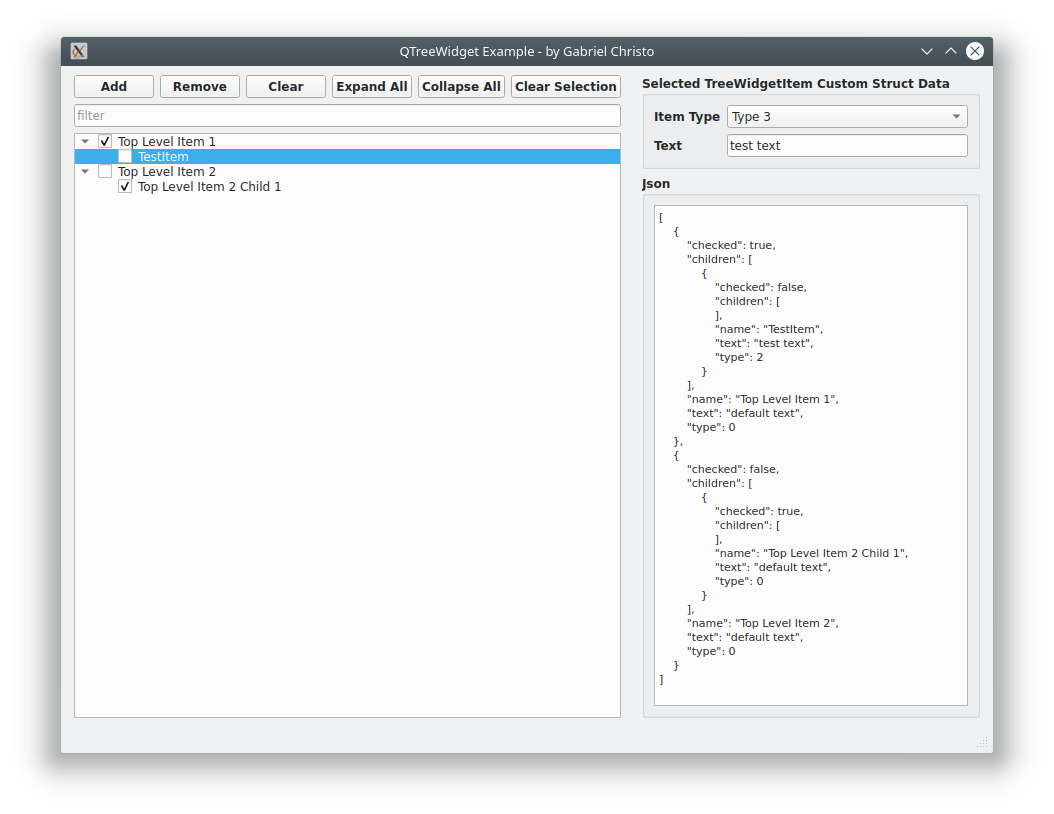
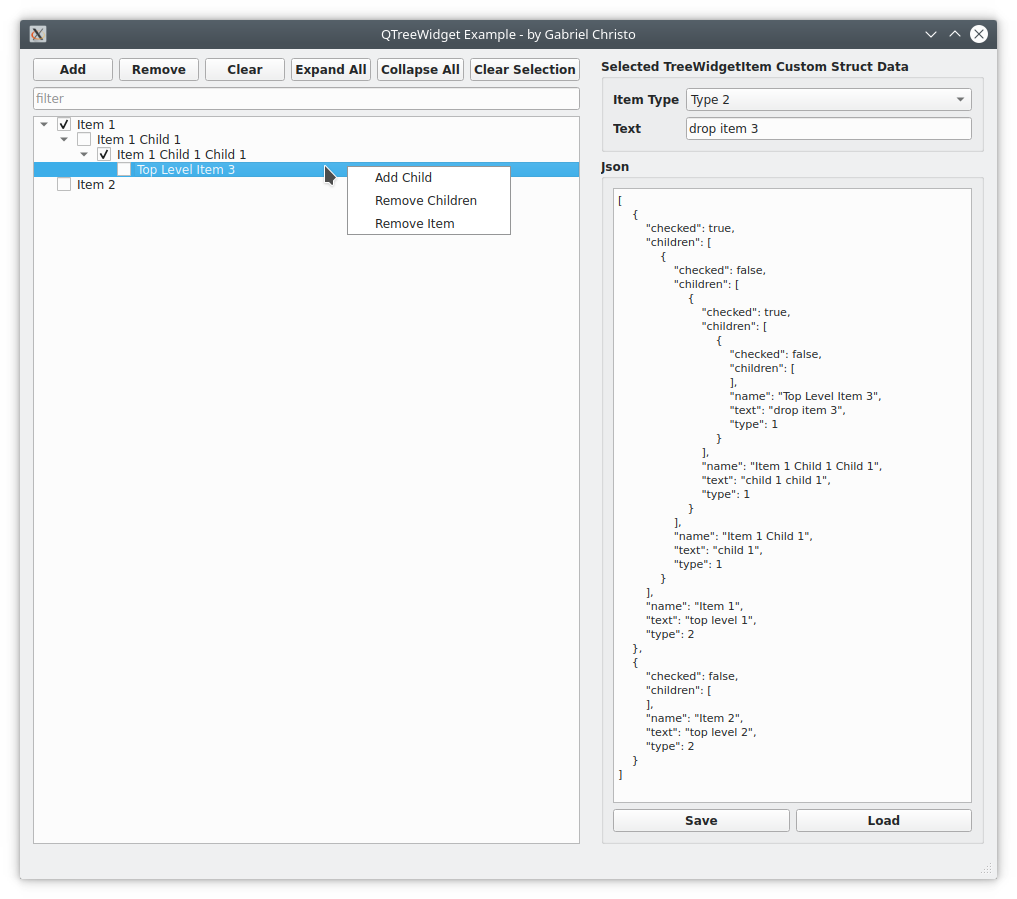
save and load json

Changed region(s): [[0.0, 0.0, 1.0, 0.9828], [0.6096, 0.215, 0.8535, 0.8907]]

diff --git a/MainWindow.cpp b/MainWindow.cpp
@@ -29,6 +29,9 @@ void MainWindow::connects()
     connect(mButtonCollapse, &QPushButton::clicked, &mTreeUtils, &TreeUtils::slotCollapseAll);
     connect(mButtonClearSelection, &QPushButton::clicked, &mTreeUtils, &TreeUtils::slotClearSelection);
 
+    connect(mButtonSaveJson, &QPushButton::clicked, this, &MainWindow::slotSaveJson);
+    connect(mButtonLoadJson, &QPushButton::clicked, this, &MainWindow::slotLoadJson);
+
     connect(mFilterLineEdit, &QLineEdit::textEdited, &mTreeUtils, &TreeUtils::slotApplyFilter);
 
     connect(mItemLineEdit, &QLineEdit::textEdited, &mTreeUtils, &TreeUtils::slotUpdateItemText);
@@ -40,6 +43,31 @@ void MainWindow::connects()
     }, Qt::UniqueConnection);
     connect(&mTreeUtils, &TreeUtils::signalShowStatusbarMessage, this->statusbar, &QStatusBar::showMessage);
     connect(&mTreeUtils, &TreeUtils::signalUpdateJsonText, this->mJsonOutput, &QPlainTextEdit::setPlainText);
+}
+
+void MainWindow::slotSaveJson()
+{
+    auto fileName = QFileDialog::getSaveFileName(this, tr("Save File"), QDir::homePath(), tr("Json (*.json)"));
+    if(fileName.isEmpty() || fileName.isNull()) return;
+
+    QFile file(fileName);
+    if(file.open(QFile::WriteOnly | QFile::Text)){
+        file.write(this->mJsonOutput->toPlainText().toUtf8());
+        file.close();
+    }
+    else QMessageBox::critical(this, tr("Error"), tr("Could not save the file"));
+}
+
+void MainWindow::slotLoadJson()
+{
+    auto fileName = QFileDialog::getOpenFileName(this, tr("Open File"), QDir::homePath(), tr("Json (*.json)"));
+
+    QFile file(fileName);
+    if(file.open(QFile::ReadOnly | QFile::Text)){
+            QTextStream in(&file);
+            this->mTreeUtils.parseJsonToTree(QJsonDocument::fromJson(in.readAll().toUtf8()));
+    }
+    else QMessageBox::critical(this, tr("Error"), tr("Could not open the file"));
 }
 
 

diff --git a/TreeUtils.cpp b/TreeUtils.cpp
@@ -23,6 +23,31 @@ void TreeUtils::setTreeWidget(QTreeWidget *tree)
     }, Qt::UniqueConnection);
 }
 
+void TreeUtils::parseJsonToTree(QJsonDocument jsonDoc)
+{
+    this->mTreeWidget->clear();
+    this->mTreeWidget->blockSignals(true);
+    this->createJsonTreeItems(this->mTreeWidget->invisibleRootItem(), jsonDoc.array());
+    this->mTreeWidget->blockSignals(false);
+    this->updateTreeJson();
+}
+
+void TreeUtils::createJsonTreeItems(QTreeWidgetItem *item, QJsonArray jsonArray)
+{
+    std::for_each(jsonArray.begin(), jsonArray.end(), [this, item](QJsonValue value){
+        auto itemObject = value.toObject();
+        auto children = itemObject["children"].toArray();
+        auto newItem = this->createTreeItem<CustomStruct>(item);
+        newItem->setCheckState(0, itemObject["checked"].toBool() ? Qt::Checked : Qt::Unchecked);
+        newItem->setText(0, itemObject["name"].toString());
+        auto itemData = this->getTreeItemData<CustomStruct>(newItem, 0);
+        itemData->setText(itemObject["text"].toString());
+        itemData->setItemType(static_cast<CustomStruct::ItemType>(itemObject["type"].toInt()));
+        this->createJsonTreeItems(newItem, children);
+        item->addChild(newItem);
+    });
+}
+
 void TreeUtils::slotAddItemInTree()
 {
     if(this->hasSelectedItem()){

diff --git a/TreeUtils.h b/TreeUtils.h
@@ -41,10 +41,22 @@ public:
         return item->data(col, Qt::UserRole).value<GenericStruct<T>>().getObject();
     };
 
+    /**
+     * @brief creates the treewidget based on json file
+     * @param jsonDoc json document
+     */
+    void parseJsonToTree(QJsonDocument jsonDoc);
 
 private:
 
     QTreeWidget* mTreeWidget = nullptr; ///< treewidget class member
+
+    /**
+     * @brief recursively creates the tree based on json array members
+     * @param item parent item
+     * @param jsonArray array of children
+     */
+    void createJsonTreeItems(QTreeWidgetItem* item, QJsonArray jsonArray);
 
     /**
      * @brief creates a treewidgetitem with a custom struct inside its variant data

diff --git a/MainWindow.h b/MainWindow.h
@@ -3,6 +3,8 @@
 #pragma once
 
 #include <QMainWindow>
+#include <QFileDialog>
+#include <QMessageBox>
 #include "TreeUtils.h"
 #include "ui_MainWindow.h"
 
@@ -31,6 +33,18 @@ private:
     void connects();
 
     TreeUtils mTreeUtils; ///< treeutils class member
+
+private slots:
+
+    /**
+     * @brief save json text to local file
+     */
+    void slotSaveJson();
+
+    /**
+     * @brief load json file into the treewidget
+     */
+    void slotLoadJson();
 
 
 };

diff --git a/README.md b/README.md
@@ -3,14 +3,13 @@ A qt single column treewidget example, with:
 
 - json serialization
 - custom data in each tree node (qvariant)
-- dynamic adding/removing nodes
+- dynamic adding and removing nodes
 - context menu
 - drag and drop
 - item name filter
 
-<img src="screenshot.png" width="1054" height="814">
+<img src="screenshot.png" width="899" height="1017">
 
-# Todo #
+# ToDo #
 - filter on child items
-- save and load json
-- drop signal to update json text
+- signal to update json text on dropped item
